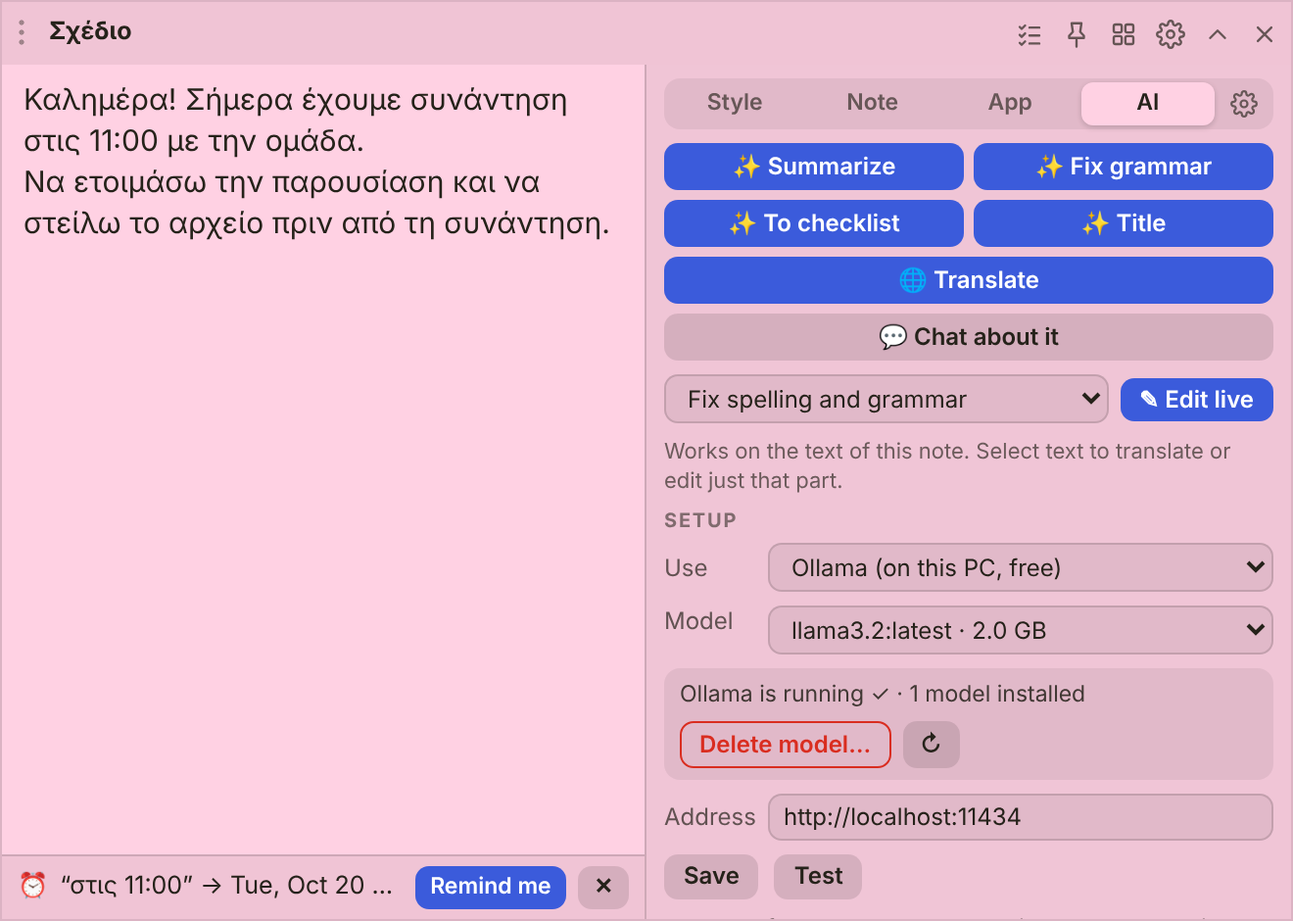
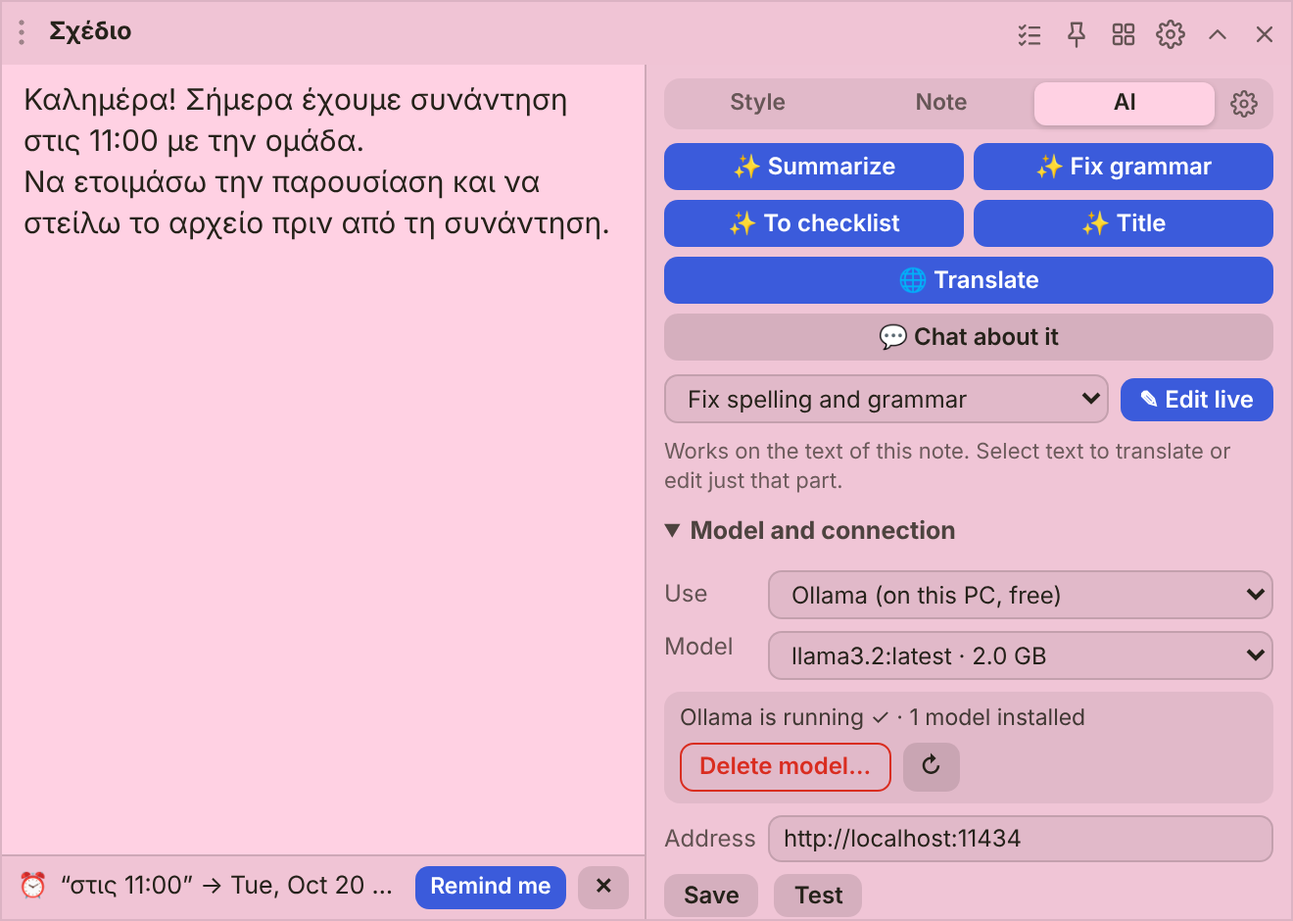
1.14.9: one Home window (notes, trash, AI chat, settings) with a sidebar; remove the duplicate App tab from the note panel
Claude-Session: https://claude.ai/code/session_01QuaePSCNKfBKv36b3rMdtf

diff --git a/main.js b/main.js
@@ -42,7 +42,7 @@ const DEFAULT_SETTINGS = {
   ai: { provider: 'off', model: '', url: 'http://localhost:11434', keyEnc: '', keepAlive: '5m' }
 };
 let notes = {}, trash = [], groups = [], settings = JSON.parse(JSON.stringify(DEFAULT_SETTINGS));
-let allWin = null, tray = null, splashWin = null, memKey = null, chatWin = null, chatState = null;
+let allWin = null, settingsWin = null, tray = null, splashWin = null, memKey = null, chatWin = null, chatState = null;
 const chatJobs = new Map();
 const wins = new Map();       // noteId -> BrowserWindow
 const byContents = new Map(); // webContents.id -> noteId
@@ -294,15 +294,36 @@ function utilWindow(ref, title, htmlFile, w, h, query) {
   win.on('focus', () => { if (!win.isDestroyed()) win.webContents.focus(); });   // makes sure text boxes receive typing
   return win;
 }
-function openAll(tab) {
-  if (allWin && !allWin.isDestroyed()) {
-    allWin.show(); allWin.focus(); allWin.webContents.focus();
-    if (tab) allWin.webContents.send('all:tab', tab);
-    return;
-  }
-  allWin = utilWindow(null, 'StickyPad – All notes', 'all.html', 540, 640, tab ? { tab } : undefined);
-  allWin.on('closed', () => { allWin = null; });
+/* One "Home" window holds All notes, Trash, the AI chat and Settings, switched from a sidebar (home.js). It is one window that loads one page at a time. */
+const HOME_PAGES = { notes: 'all.html', trash: 'all.html', chat: 'chat.html', settings: 'settings.html' };
+let homeWin = null, homePage = '';
+function syncHome() {   // allWin / chatWin / settingsWin point at the Home window only while their page is the one showing
+  const ok = !!homeWin && !homeWin.isDestroyed();
+  allWin = ok && homePage === 'all.html' ? homeWin : null;
+  chatWin = ok && homePage === 'chat.html' ? homeWin : null;
+  settingsWin = ok && homePage === 'settings.html' ? homeWin : null;
 }
+function openHome(section, arg) {
+  if (!HOME_PAGES[section]) section = 'notes';
+  const file = HOME_PAGES[section];
+  const query = section === 'trash' ? { tab: 'trash' } : section === 'settings' && arg ? { section: String(arg) } : section === 'chat' && arg ? { note: String(arg) } : undefined;
+  if (homeWin && !homeWin.isDestroyed()) {
+    homeWin.show(); homeWin.focus();
+    if (homePage === file) {   // already showing that page: just tell it what to show
+      const wc = homeWin.webContents;
+      if (file === 'all.html') wc.send('all:tab', section); else if (section === 'chat' && arg) wc.send('chat:attach', arg); else if (section === 'settings' && arg) wc.send('settings:section', arg);
+      wc.focus(); return;
+    }
+    if (homePage === 'chat.html') { chatJobs.forEach(a => a.abort()); chatJobs.clear(); }
+    homePage = file; syncHome(); homeWin.loadFile(file, query ? { query } : undefined); return;
+  }
+  homePage = file;
+  homeWin = utilWindow(null, 'StickyPad', file, 980, 680, query);
+  homeWin.setMinimumSize(800, 520);
+  syncHome();
+  homeWin.on('closed', () => { chatJobs.forEach(a => a.abort()); chatJobs.clear(); homeWin = null; homePage = ''; syncHome(); });
+}
+function openAll(tab) { openHome(tab === 'trash' ? 'trash' : 'notes'); }
 const openTrash = () => openAll('trash');
 const pingAll = () => {
   clearTimeout(allTimer);
@@ -908,25 +929,11 @@ function chatSystem(noteId, question, sources) {
 }
 function openChat(noteId) {
   ai.warmup(aiCfg());   // the chat is about to be used: load the local model now
-  if (chatWin && !chatWin.isDestroyed()) {
-    chatWin.show(); chatWin.focus(); chatWin.webContents.focus();
-    if (noteId) chatWin.webContents.send('chat:attach', noteId);
-    return;
-  }
-  const wa = screen.getPrimaryDisplay().workArea, W = 400;
-  chatWin = new BrowserWindow({
-    x: wa.x + wa.width - W, y: wa.y, width: W, height: wa.height, minWidth: 340, minHeight: 420, frame: false, show: false,
-    title: 'StickyPad – AI chat', icon: iconPath, backgroundColor: '#161b27',
-    webPreferences: { preload, contextIsolation: true, nodeIntegration: false }
-  });
-  chatWin.setMenu(null);
-  chatWin.loadFile('chat.html', noteId ? { query: { note: noteId } } : undefined);
-  chatWin.once('ready-to-show', () => { chatWin.show(); chatWin.focus(); chatWin.webContents.focus(); });
-  chatWin.on('focus', () => { if (!chatWin.isDestroyed()) chatWin.webContents.focus(); });
-  chatWin.on('closed', () => { chatJobs.forEach(a => a.abort()); chatJobs.clear(); chatWin = null; });
+  openHome('chat', noteId);
 }
 ipcMain.handle('chat:open', (e, noteId) => openChat(typeof noteId === 'string' ? noteId : undefined));
-ipcMain.handle('chat:close', () => { if (chatWin && !chatWin.isDestroyed()) chatWin.close(); });
+ipcMain.handle('chat:close', () => { openHome('notes'); });
+ipcMain.handle('home:go', (e, section, arg) => { if (section === 'chat') return openChat(typeof arg === 'string' ? arg : undefined); openHome(String(section), typeof arg === 'string' ? arg : undefined); });
 ipcMain.handle('chat:load', () => {
   const c = loadChat();
   return { messages: cleanChat(c.messages, 100), noteId: notes[c.noteId] && !notes[c.noteId].lock ? c.noteId : null,
@@ -1061,17 +1068,7 @@ function purgeTrash() {
 }
 
 /* ---------- the Settings window ---------- */
-let settingsWin = null;
-function openSettings(section) {
-  if (settingsWin && !settingsWin.isDestroyed()) {
-    settingsWin.show(); settingsWin.focus(); settingsWin.webContents.focus();
-    if (section) settingsWin.webContents.send('settings:section', section);
-    return;
-  }
-  settingsWin = utilWindow(null, 'StickyPad – Settings', 'settings.html', 860, 640, section ? { section } : undefined);
-  settingsWin.setMinimumSize(700, 480);
-  settingsWin.on('closed', () => { settingsWin = null; });
-}
+function openSettings(section) { openHome('settings', typeof section === 'string' ? section : undefined); }
 // How much memory StickyPad uses right now (private memory per process, like Task Manager's "Memory" column), in MB.
 function memoryUse() {
   const mb = k => Math.round(k / 1024), out = { total: 0, main: 0, notes: 0, gpu: 0, other: 0, processes: 0, windows: BrowserWindow.getAllWindows().length };

diff --git a/note.js b/note.js
@@ -569,18 +569,8 @@ async function refreshInfo() {
   const none = document.createElement('option'); none.value = ''; none.textContent = '— No folder —'; g.appendChild(none);
   i.groups.forEach(x => { const o = document.createElement('option'); o.value = x.id; o.textContent = x.name; g.appendChild(o); });
   g.value = note.group || '';
-  $('#snapCk').checked = i.snap;
-  $('#startup').checked = i.startup; $('#startup').disabled = !i.packaged; $('#startupNote').hidden = i.packaged;
-  $('#hideTb').checked = i.hideTaskbar;
-  $('#trashCount').textContent = i.trash || '';
 }
-$('#startup').onchange = async e => { e.target.checked = await api.setStartup(e.target.checked); };
-$('#hideTb').onchange = async e => { e.target.checked = await api.setHideTaskbar(e.target.checked); };
-$('#allBtn').onclick = () => api.openAll();
-$('#newBtn').onclick = () => api.newNote();
-$('#tidyBtn').onclick = () => api.tidy();
 $('#grp').onchange = e => { note.group = e.target.value || null; api.grpMove(note.id, note.group); };
-$('#snapCk').onchange = async e => { e.target.checked = await api.setSnap(e.target.checked); };
 $('#chk').onclick = () => { addTodo(); ed.focus(); };
 $('#topic').addEventListener('input', e => { note.title = e.target.value; api.update({ title: note.title }); });
 $('#topic').addEventListener('keydown', e => { if (e.key === 'Enter') { e.preventDefault(); ed.focus(); } });
@@ -786,7 +776,8 @@ ed.addEventListener('input', () => { if (!editBar.hidden && !edit) editBarHide()
 function updateAiButtons() {
   const off = !aiCfgState || aiCfgState.provider === 'off', locked = bodyLocked();
   $('#aiTitle').disabled = $('#aiSum').disabled = $('#aiFix').disabled = $('#aiList').disabled = $('#aiEdit').disabled = $('#aiTr').disabled = off || locked; $('#aiChat').disabled = locked;
-  $('#aiHint').textContent = locked ? 'Unlock this note first.' : off ? 'Turn the AI on below to use these.' : 'Works on the text of this note. Select text to translate or edit just that part.';
+  if (off) $('#aiSetup').open = true;
+  $('#aiHint').textContent = locked ? 'Unlock this note first.' : off ? 'Turn the AI on below (Model and connection) to use these.' : 'Works on the text of this note. Select text to translate or edit just that part.';
   if (!locked && !off) modelCheck();
 }
 // Tells you right away when the chosen Ollama model has not been downloaded, instead of failing on the first request.
@@ -798,8 +789,8 @@ async function modelCheck() {
     const st = await api.ollamaStatus(c.url);
     if (!aiCfgState || aiCfgState.provider !== 'ollama' || bodyLocked()) return;
     const has = n => st && st.models && st.models.some(m => m.name === n || m.name === n + ':latest');
-    if (st && !st.running) $('#aiHint').textContent = 'Ollama is not running. Open the Setup section below and press Start.';
-    else if (st && st.running && !has(aiCfgState.model)) $('#aiHint').textContent = 'The model "' + aiCfgState.model + '" is not installed yet. Pick it in Setup below and press Download.';
+    if (st && !st.running) { $('#aiHint').textContent = 'Ollama is not running. Press Start under Model and connection below.'; $('#aiSetup').open = true; }
+    else if (st && st.running && !has(aiCfgState.model)) { $('#aiHint').textContent = 'The model "' + aiCfgState.model + '" is not installed yet. Pick it under Model and connection below and press Download.'; $('#aiSetup').open = true; }
   } catch (e) {} finally { modelCheckBusy = false; }
 }
 function aiFields() {
@@ -836,7 +827,6 @@ $('#aiTest').onclick = async () => {
 };
 $('#aiClear').onclick = async () => { await api.aiSet({ clearKey: true }); await aiLoad(); $('#aiMsg').textContent = 'Key removed.'; };
 $('#allTop').onclick = () => api.openAll();
-$('#openSettings').onclick = () => { $('#panel').hidden = true; $('#cfg').setAttribute('aria-expanded', 'false'); api.openSettings(); };
 
 /* ---------- lock ---------- */
 const lockMsg = t => { $('#lockmsg').textContent = t; };
@@ -860,15 +850,14 @@ $('#pw').addEventListener('keydown', e => { if (e.key === 'Enter') $('#unlockBtn
 $('#rmLockBtn').onclick = async () => {
   if (await api.removeLock($('#rmpw').value)) { $('#rmpw').value = ''; lockMsg('Lock removed.'); await reload(); } else lockMsg('Wrong password.');
 };
-$('#trashBtn').onclick = () => api.openTrash();
 let lastWarm = 0;
 function warmModel() {   // opening the AI tab means you are about to use it: load the local model now (never at start-up)
   if (Date.now() - lastWarm < 240000) return; lastWarm = Date.now();
   try { api.aiWarmup(); } catch (e) {}
 }
 function showTab(t) {
-  if (!['style', 'note', 'app', 'ai'].includes(t)) t = 'style';
-  ['style', 'note', 'app', 'ai'].forEach(k => { $('#pg-' + k).hidden = k !== t; });
+  if (!['style', 'note', 'ai'].includes(t)) t = 'style';
+  ['style', 'note', 'ai'].forEach(k => { $('#pg-' + k).hidden = k !== t; });
   document.querySelectorAll('.tabs button[data-tab]').forEach(b => { const on = b.dataset.tab === t; b.classList.toggle('on', on); b.setAttribute('aria-selected', on); });
   try { localStorage.setItem('sp.tab', t); } catch (e) {}
   $('#panel').scrollTop = 0;

diff --git a/note.html b/note.html
@@ -24,7 +24,6 @@
   <div class="tabs" role="tablist" aria-label="Settings">
     <button class="on" role="tab" data-tab="style">Style</button>
     <button role="tab" data-tab="note">Note</button>
-    <button role="tab" data-tab="app">App</button>
     <button role="tab" data-tab="ai">AI</button>
     <button id="tabSettings" class="tabgear" title="Open all settings (Ctrl+,)" aria-label="Open all settings"><svg class="i" viewBox="0 0 24 24"><circle cx="12" cy="12" r="3"/><path d="M19.4 15a1.7 1.7 0 0 0 .3 1.8l.1.1a2 2 0 1 1-2.8 2.8l-.1-.1a1.7 1.7 0 0 0-1.8-.3 1.7 1.7 0 0 0-1 1.5V21a2 2 0 1 1-4 0v-.1a1.7 1.7 0 0 0-1.1-1.5 1.7 1.7 0 0 0-1.8.3l-.1.1a2 2 0 1 1-2.8-2.8l.1-.1a1.7 1.7 0 0 0 .3-1.8 1.7 1.7 0 0 0-1.5-1H3a2 2 0 1 1 0-4h.1a1.7 1.7 0 0 0 1.5-1.1 1.7 1.7 0 0 0-.3-1.8l-.1-.1a2 2 0 1 1 2.8-2.8l.1.1a1.7 1.7 0 0 0 1.8.3H9a1.7 1.7 0 0 0 1-1.5V3a2 2 0 1 1 4 0v.1a1.7 1.7 0 0 0 1 1.5 1.7 1.7 0 0 0 1.8-.3l.1-.1a2 2 0 1 1 2.8 2.8l-.1.1a1.7 1.7 0 0 0-.3 1.8V9a1.7 1.7 0 0 0 1.5 1H21a2 2 0 1 1 0 4h-.1a1.7 1.7 0 0 0-1.5 1z"/></svg></button>
   </div>
@@ -78,19 +77,6 @@
     <button id="del" class="btn danger" title="Move this note to the trash">Move note to trash</button>
   </div>
 
-  <div class="page" id="pg-app" hidden>
-    <div class="tools">
-      <button id="newBtn" class="tool" title="New note (Ctrl+N)"><svg class="i" viewBox="0 0 24 24"><path d="M12 5v14M5 12h14"/></svg>New</button>
-      <button id="allBtn" class="tool" title="All notes"><svg class="i" viewBox="0 0 24 24"><rect x="4" y="4" width="6.5" height="6.5" rx="1.5"/><rect x="13.5" y="4" width="6.5" height="6.5" rx="1.5"/><rect x="4" y="13.5" width="6.5" height="6.5" rx="1.5"/><rect x="13.5" y="13.5" width="6.5" height="6.5" rx="1.5"/></svg>All</button>
-      <button id="tidyBtn" class="tool" title="Arrange open notes in rows"><svg class="i" viewBox="0 0 24 24"><rect x="3.5" y="4" width="7.5" height="6.5" rx="1.5"/><rect x="13" y="4" width="7.5" height="6.5" rx="1.5"/><rect x="3.5" y="13.5" width="17" height="6.5" rx="1.5"/></svg>Tidy</button>
-      <button id="trashBtn" class="tool" title="Open trash"><svg class="i" viewBox="0 0 24 24"><path d="M5 7h14M9.5 7V4.5h5V7M7 7l.9 12.5h8.2L17 7"/></svg>Trash<span id="trashCount" class="badge"></span></button>
-    </div>
-    <label class="opt"><span>Snap to edges and notes</span><input id="snapCk" class="toggle" type="checkbox"></label>
-    <label class="opt"><span>Hide from taskbar</span><input id="hideTb" class="toggle" type="checkbox"></label>
-    <label class="opt"><span>Start with Windows</span><input id="startup" class="toggle" type="checkbox"></label>
-    <p id="startupNote" class="hint" hidden>Available once StickyPad is installed (npm run dist).</p>
-  </div>
-
   <div class="page" id="pg-ai" hidden>
     <div class="aibtns">
       <button id="aiSum" class="btn primary">✨ Summarize</button>
@@ -105,7 +91,7 @@
       <button id="aiEdit" class="btn primary" title="Edits the selected text, or the paragraph with the cursor, live (Ctrl+Shift+E)">✎ Edit live</button>
     </div>
     <p id="aiHint" class="hint"></p>
-    <div class="sect">Setup</div>
+    <details id="aiSetup" class="setup"><summary>Model and connection</summary>
     <label class="row"><span>Use</span><select id="aiProv" class="field" aria-label="AI provider">
       <option value="off">Off</option><option value="ollama">Ollama (on this PC, free)</option><option value="claude">Claude API (online)</option></select></label>
     <div class="row top"><span>Model</span><div class="mcol"><select id="aiModelSel" class="field" aria-label="Model" hidden></select><input id="aiModel" class="field" autocomplete="off" spellcheck="false" aria-label="Model name"></div></div>
@@ -114,8 +100,8 @@
     <div class="line"><button id="aiSave" class="btn">Save</button><button id="aiTest" class="btn">Test</button><button id="aiClear" class="btn" hidden>Forget key</button></div>
     <p id="aiMsg" class="hint"></p>
     <p class="hint">The text of the note you ask about is sent to the provider you pick. Ollama keeps it on this PC; the Claude API sends it to Anthropic.</p>
+    </details>
   </div>
-  <div class="panelfoot"><button id="openSettings" class="linkbtn"><svg class="i" viewBox="0 0 24 24"><circle cx="12" cy="12" r="3"/><path d="M19.4 15a1.7 1.7 0 0 0 .3 1.8l.1.1a2 2 0 1 1-2.8 2.8l-.1-.1a1.7 1.7 0 0 0-1.8-.3 1.7 1.7 0 0 0-1 1.5V21a2 2 0 1 1-4 0v-.1a1.7 1.7 0 0 0-1.1-1.5 1.7 1.7 0 0 0-1.8.3l-.1.1a2 2 0 1 1-2.8-2.8l.1-.1a1.7 1.7 0 0 0 .3-1.8 1.7 1.7 0 0 0-1.5-1H3a2 2 0 1 1 0-4h.1a1.7 1.7 0 0 0 1.5-1.1 1.7 1.7 0 0 0-.3-1.8l-.1-.1a2 2 0 1 1 2.8-2.8l.1.1a1.7 1.7 0 0 0 1.8.3H9a1.7 1.7 0 0 0 1-1.5V3a2 2 0 1 1 4 0v.1a1.7 1.7 0 0 0 1 1.5 1.7 1.7 0 0 0 1.8-.3l.1-.1a2 2 0 1 1 2.8 2.8l-.1.1a1.7 1.7 0 0 0-.3 1.8V9a1.7 1.7 0 0 0 1.5 1H21a2 2 0 1 1 0 4h-.1a1.7 1.7 0 0 0-1.5 1z"/></svg>All settings…</button></div>
 </section>
 
 <div id="findbar" hidden role="search">

diff --git a/home.js b/home.js
@@ -1,0 +1,51 @@
+'use strict';
+// The "Home" sidebar: All notes, Trash, AI chat and Settings are pages of one window. This script wraps whatever page it is loaded in
+// (all.html, chat.html, settings.html) with the sidebar. Notes and Trash switch inside all.html; the others load their own page.
+(function () {
+  const page = location.pathname.split('/').pop();
+  const body = document.body;
+  if (!body || body.classList.contains('homed')) return;
+  const here = page === 'chat.html' ? 'chat' : page === 'settings.html' ? 'settings' : 'notes';
+  const ico = d => '<svg class="i" viewBox="0 0 24 24" aria-hidden="true">' + d + '</svg>';
+  const ITEMS = [
+    ['notes', 'Notes', ico('<rect x="4" y="4" width="6.5" height="6.5" rx="1.5"/><rect x="13.5" y="4" width="6.5" height="6.5" rx="1.5"/><rect x="4" y="13.5" width="6.5" height="6.5" rx="1.5"/><rect x="13.5" y="13.5" width="6.5" height="6.5" rx="1.5"/>')],
+    ['trash', 'Trash', ico('<path d="M5 7h14M9.5 7V4.5h5V7M7 7l.9 12.5h8.2L17 7"/>')],
+    ['chat', 'Ask the AI', ico('<path d="M12 3l1.8 5.2L19 10l-5.2 1.8L12 17l-1.8-5.2L5 10l5.2-1.8z"/>')],
+    ['settings', 'Settings', ico('<circle cx="12" cy="12" r="3"/><path d="M12 3v3M12 18v3M3 12h3M18 12h3M5.6 5.6l2.1 2.1M16.3 16.3l2.1 2.1M18.4 5.6l-2.1 2.1M7.7 16.3l-2.1 2.1"/>')]
+  ];
+  const link = document.createElement('link'); link.rel = 'stylesheet'; link.href = 'home.css'; document.head.appendChild(link);
+  const nav = document.createElement('nav'); nav.id = 'homeNav'; nav.setAttribute('aria-label', 'StickyPad');
+  const brand = document.createElement('div'); brand.className = 'hbrand'; brand.textContent = 'StickyPad'; nav.appendChild(brand);
+  const btns = {};
+  for (const [id, label, icon] of ITEMS) {
+    const b = document.createElement('button'); b.type = 'button'; b.className = 'hitem'; b.dataset.go = id;
+    b.innerHTML = icon + '<span>' + label + '</span>' + (id === 'trash' ? '<em id="hTrashN"></em>' : '');
+    b.onclick = () => go(id); nav.appendChild(b); btns[id] = b;
+  }
+  const foot = document.createElement('div'); foot.className = 'hfoot'; foot.textContent = 'Ctrl+Alt+A opens this window from anywhere.'; nav.appendChild(foot);
+
+  const main = document.createElement('div'); main.className = 'homeMain';
+  main.style.flexDirection = getComputedStyle(body).flexDirection;   // keep the page's own layout (column, or row for Settings)
+  [...body.childNodes].filter(n => n.nodeName !== 'SCRIPT').forEach(n => main.appendChild(n));
+  body.insertBefore(main, body.firstChild); body.insertBefore(nav, body.firstChild);
+  body.classList.add('homed');
+
+  function mark(id) { Object.entries(btns).forEach(([k, b]) => { b.classList.toggle('on', k === id); b.setAttribute('aria-current', k === id ? 'page' : 'false'); }); }
+  function go(id) {
+    if (here === 'notes' && (id === 'notes' || id === 'trash')) { const t = document.getElementById(id === 'trash' ? 'tabTrash' : 'tabNotes'); t && t.click(); mark(id); return; }
+    if (id === here) return;
+    window.api && window.api.home && window.api.home(id);
+  }
+  // the Notes page tells us which of its two views is showing, and how many notes are in the trash
+  function sync() {
+    if (here !== 'notes') return;
+    const tt = document.getElementById('tabTrash'); mark(tt && tt.classList.contains('on') ? 'trash' : 'notes');
+    const n = document.getElementById('trashN'), h = document.getElementById('hTrashN'); if (n && h) h.textContent = n.textContent.trim();
+  }
+  mark(here);
+  if (here === 'notes') {
+    const obs = new MutationObserver(sync);
+    ['tabTrash', 'tabNotes', 'trashN'].forEach(i => { const e = document.getElementById(i); e && obs.observe(e, { attributes: true, childList: true, characterData: true, subtree: true }); });
+    sync();
+  }
+})();

diff --git a/home.css b/home.css
@@ -1,0 +1,15 @@
+/* sidebar of the Home window (see home.js) */
+body.homed{flex-direction:row!important;border:0!important}
+.homeMain{flex:1;min-width:0;height:100%;display:flex;overflow:hidden}
+#homeNav{flex:none;width:172px;height:100%;display:flex;flex-direction:column;gap:2px;padding:14px 10px;background:var(--card,#fff);border-right:1px solid var(--line,#e0e3ee)}
+.hbrand{font-weight:800;font-size:15px;letter-spacing:-.01em;padding:2px 10px 14px}
+.hitem{display:flex;align-items:center;gap:10px;width:100%;text-align:left;font:inherit;font-size:13.5px;font-weight:600;color:var(--mute,#6b7288);background:none;border:0;border-radius:9px;padding:9px 10px;cursor:pointer}
+.hitem:hover{background:var(--hover,#e8ebf6);color:var(--fg,#1c2030)}
+.hitem.on{background:var(--hover,#e8ebf6);color:var(--accent,#4263eb)}
+.hitem em{margin-left:auto;font-style:normal;font-size:11px;font-weight:700;color:var(--mute,#6b7288)}
+.hitem em:empty{display:none}
+.hitem:focus-visible{outline:2px solid var(--accent,#4263eb);outline-offset:1px}
+.hfoot{margin-top:auto;padding:10px;font-size:11.5px;line-height:1.4;color:var(--mute,#6b7288)}
+/* the pages' own switches for the same things are now in the sidebar */
+.homed .tabs2,.homed #chatBtn,.homed #gear{display:none!important}
+.homed #close{display:none!important}

diff --git a/note.css b/note.css
@@ -166,7 +166,9 @@ body.dark .aibody .cl.done b::after{border-color:#14181f}
 /* smaller topic box (grows a little while you type) and more room to drag the window */
 #topic{flex:0 1 20%;min-width:44px;font-size:12.5px;padding:2px 5px}
 #topic:focus{flex-basis:44%}
-.panelfoot{border-top:1px solid var(--line);padding-top:8px;margin-top:2px}
+.setup>summary{cursor:pointer;font-weight:700;font-size:12.5px;padding:4px 0;opacity:.8;user-select:none}
+.setup[open]>summary{margin-bottom:6px}
+.setup>*:not(summary){margin-top:6px}
 .linkbtn{display:flex;align-items:center;gap:7px;width:100%;justify-content:center;border:0;background:none;color:inherit;font:inherit;font-size:12px;font-weight:600;padding:6px;border-radius:8px;cursor:pointer;opacity:.75}
 .linkbtn:hover{background:var(--tint2);opacity:1}
 
@@ -205,7 +207,6 @@ svg.i{width:15px;height:15px}
 .swatches{gap:6px;padding:1px}
 .sw{width:19px;height:19px}
 .aibtns{gap:5px}.aibtns .btn{padding:4px 5px}
-.panelfoot{padding-top:5px;margin-top:0}
 .row.top{align-items:flex-start}
 .mcol{flex:1;min-width:0;display:flex;flex-direction:column;gap:5px}
 .mcol .field{width:100%}

diff --git a/preload.js b/preload.js
@@ -16,7 +16,7 @@ contextBridge.exposeInMainWorld('api', {
   themeSet: call('theme:set'), themeApplyAll: call('theme:applyAll'),
   onReload: cb => ipcRenderer.on('note:reload', () => cb()),
   onStyle: cb => ipcRenderer.on('note:style', (e, st) => cb(st)),
-  openChat: call('chat:open'), chatClose: call('chat:close'), chatLoad: call('chat:load'), chatSave: call('chat:save'),
+  home: call('home:go'), openChat: call('chat:open'), chatClose: call('chat:close'), chatLoad: call('chat:load'), chatSave: call('chat:save'),
   chatNotes: call('chat:notes'), chatSend: call('chat:send'), chatStop: call('chat:stop'), chatSaveAsNote: call('chat:saveAsNote'),
   onChatEvent: cb => ipcRenderer.on('chat:event', (e, m) => cb(m)),
   onChatAttach: cb => ipcRenderer.on('chat:attach', (e, id) => cb(id)),

diff --git a/tests/ui/stub.js b/tests/ui/stub.js
@@ -26,6 +26,7 @@
       if (S.pullFail) { emit('ollama', { type: 'pull', name, state: 'error', error: 'disk full' }); return { ok: false, error: 'disk full' }; }
       S.ol.models.push({ name, size: 1.3e9 }); emit('ollama', { type: 'pull', name, state: 'done' }); return { ok: true };
     },
+    home: async (id, arg) => { S.calls.push(['home', id, arg]); return true; },
     ollamaDelete: async name => { S.calls.push(['delete', name]); if (S.delFail) return { ok: false, error: 'Ollama is busy' }; S.ol.models = S.ol.models.filter(m => m.name !== name); return { ok: true }; },
     ollamaInstall: async () => {
       S.calls.push(['install']);

diff --git a/settings.html b/settings.html
@@ -112,5 +112,6 @@
 <script src="keys.js"></script>
 <script src="ollamaui.js"></script>
 <script src="settings.js"></script>
+<script src="home.js"></script>
 </body>
 </html>

diff --git a/chat.html b/chat.html
@@ -27,5 +27,6 @@
   <button id="send" class="send">Send</button>
 </footer>
 <script src="chat.js"></script>
+<script src="home.js"></script>
 </body>
 </html>

diff --git a/all.html b/all.html
@@ -46,5 +46,6 @@
 </main>
 <script src="all.js"></script>
 <script src="updbar.js"></script>
+<script src="home.js"></script>
 </body>
 </html>

diff --git a/tools/screenshots.py b/tools/screenshots.py
@@ -67,13 +67,13 @@ with sync_playwright() as p:
     NOTES['links'] = dict(title='Weekend', color='#CDEFFF', font='Segoe UI', size=15,
       blocks=[T('Tickets: https://www.aegeanair.com/booking\nHotel contact: reservations@seaview.gr\nDentist tomorrow at 5pm\nCall Nick'), ])
     pg = page(b, 'links'); goto(pg, 'note.html'); pg.wait_for_timeout(1000); shot(pg, 'feature_links'); pg.close()
-    pg = page(b, 'links', extra="window.__S.updateNow={state:'ready',version:'1.14.9'}"); goto(pg, 'note.html'); pg.wait_for_timeout(1000); shot(pg, 'feature_update'); pg.close()
+    pg = page(b, 'links', extra="window.__S.updateNow={state:'ready',version:'1.14.10'}"); goto(pg, 'note.html'); pg.wait_for_timeout(1000); shot(pg, 'feature_update'); pg.close()
     # shortcuts you can change
-    pg = page(b, None, 860, 700); goto(pg, 'settings.html'); pg.click('[data-cat=shortcuts]'); pg.wait_for_timeout(300)
+    pg = page(b, None, 1030, 700); goto(pg, 'settings.html'); pg.click('[data-cat=shortcuts]'); pg.wait_for_timeout(300)
     pg.click('[data-key=g_clip]'); pg.keyboard.press('Control+Alt+Shift+V'); pg.wait_for_timeout(300); shot(pg, 'feature_shortcuts'); pg.close()
     # chat across all notes
     chatj = "window.api.chatLoad=async()=>({messages:[{role:'user',content:'What did I write about the dentist?'},{role:'assistant',content:'In your note **Weekend** you wrote: *Dentist tomorrow at 5pm*. Nothing else mentions it.'}],noteId:'*',provider:'ollama',model:'gemma3:4b'});window.api.chatNotes=async()=>[{id:'n1',title:'Weekend'},{id:'n2',title:'Groceries'}];"
-    pg = page(b, None, 420, 600, extra=chatj); goto(pg, 'chat.html'); pg.wait_for_timeout(300)
+    pg = page(b, None, 900, 600, extra=chatj); goto(pg, 'chat.html'); pg.wait_for_timeout(300)
     pg.evaluate("(()=>{const s=document.createElement('div');s.className='src';s.textContent='Looked at: Weekend · Groceries';const m=document.querySelectorAll('.msg');m[m.length-1].appendChild(s)})()"); shot(pg, 'feature_chat_all'); pg.close()
     # all notes
     allj = '''window.api.allList = async () => ({ emoji: '☀', greeting: 'Good morning', notes: [
@@ -84,10 +84,10 @@ with sync_playwright() as p:
       {id:'e',title:'Passwords hint',text:'Locked note',color:'#D9F2C2',group:null,updated:Date.now()-2*864e5,open:false,locked:true},
       {id:'f',title:'Reading list',text:'Dune, The Left Hand of Darkness',color:'#E6D5FF',group:'g1',updated:Date.now()-5*864e5,open:false}],
       groups: [{id:'g1',name:'Home',collapsed:false},{id:'g2',name:'Work',collapsed:false}], trash: [], prefs: {} });'''
-    pg = page(b, None, 420, 600, extra=allj); goto(pg, 'all.html'); shot(pg, 'feature_all'); pg.close()
+    pg = page(b, None, 900, 560, extra=allj); goto(pg, 'all.html'); shot(pg, 'feature_all'); pg.close()
     # settings window
-    setj = "const o=window.api.settingsGet; window.api.settingsGet=async()=>({...(await o()),version:'1.14.8',notesCount:6,groups:[{id:'g1',name:'Home'},{id:'g2',name:'Work'}],autoBackup:true,backupCount:7,lastBackup:Date.now()-3600e3,dataPath:'C:/Users/you/OneDrive/StickyPad',dataCustom:true,autoUpdate:true,shortcuts:true,snap:true});"
-    pg = page(b, None, 860, 640, extra=setj); goto(pg, 'settings.html'); pg.click('[data-cat=data]'); pg.wait_for_timeout(300); shot(pg, 'feature_settings_data'); pg.click('[data-cat=about]'); pg.wait_for_timeout(300); shot(pg, 'feature_settings_about'); pg.close()
+    setj = "const o=window.api.settingsGet; window.api.settingsGet=async()=>({...(await o()),version:'1.14.9',notesCount:6,groups:[{id:'g1',name:'Home'},{id:'g2',name:'Work'}],autoBackup:true,backupCount:7,lastBackup:Date.now()-3600e3,dataPath:'C:/Users/you/OneDrive/StickyPad',dataCustom:true,autoUpdate:true,shortcuts:true,snap:true});"
+    pg = page(b, None, 1030, 640, extra=setj); goto(pg, 'settings.html'); pg.click('[data-cat=data]'); pg.wait_for_timeout(300); shot(pg, 'feature_settings_data'); pg.click('[data-cat=about]'); pg.wait_for_timeout(300); shot(pg, 'feature_settings_about'); pg.close()
     b.close()
 
 # --- the hero picture: three notes on a desktop-like background ---
